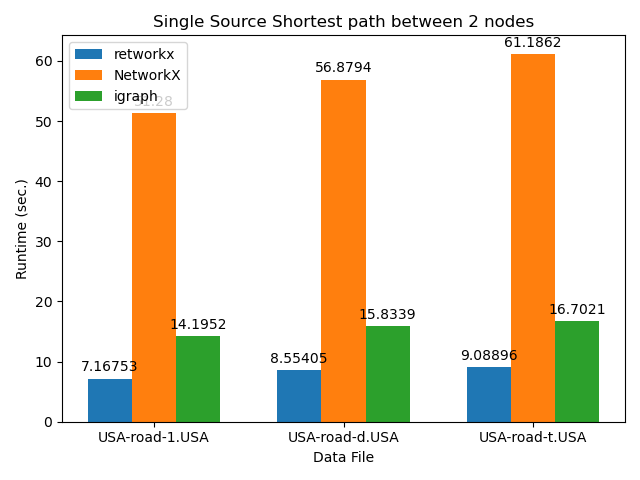
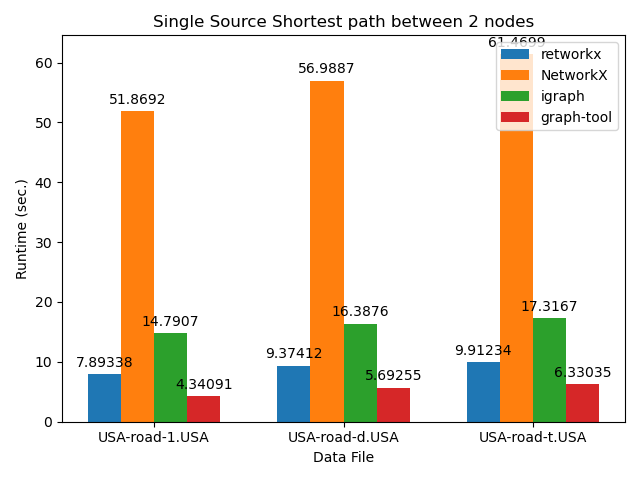
Add graph tool benchmarks and measure creation time

diff --git a/graph_results.py b/graph_results.py
@@ -7,6 +7,73 @@ import matplotlib.pyplot as plt
 import numpy as np
 
 
+def creation_time_graph():
+    # Only use slower larger datasets, the following is the full list:
+    # single_source_shortest_files = [
+    #     'USA-road-1.USA', 'USA-road-d.NY', 'USA-road-d.USA', 'USA-road-t.NY',
+    #     'USA-road-t.USA', 'rome99.gr'
+    # ]
+    single_source_shortest_files = [
+        "USA-road-1.USA",
+        "USA-road-d.USA",
+        "USA-road-t.USA",
+    ]
+    retworkx_times = []
+    networkx_times = []
+    igraph_times = []
+    graph_tools_times = []
+    for file in single_source_shortest_files:
+        retworkx_file = "retworkx_" + file + ".csv"
+        with open(retworkx_file) as csvfile:
+            data_reader = csv.reader(csvfile)
+            for row in data_reader:
+                if row[0] == "Creation":
+                    retworkx_times.append(statistics.mean([float(x) for x in row[1:]]))
+        networkx_file = "networkx_" + file + ".csv"
+        with open(networkx_file) as csvfile:
+            data_reader = csv.reader(csvfile)
+            for row in data_reader:
+                if row[0] == "Creation":
+                    networkx_times.append(statistics.mean([float(x) for x in row[1:]]))
+        igraph_file = "igraph_" + file + ".csv"
+        with open(igraph_file) as csvfile:
+            data_reader = csv.reader(csvfile)
+            for row in data_reader:
+                if row[0] == "Creation":
+                    igraph_times.append(statistics.mean([float(x) for x in row[1:]]))
+        graph_tools_file = "graph-tool_" + file + ".csv"
+        with open(graph_tools_file) as csvfile:
+            data_reader = csv.reader(csvfile)
+            for row in data_reader:
+                if row[0] == "Creation":
+                    graph_tools_times.append(
+                        statistics.mean([float(x) for x in row[1:]])
+                    )
+    x = np.arange(len(single_source_shortest_files))
+    width = 0.175
+    fig, ax = plt.subplots()
+    retworkx_rects = ax.bar(x - 3 * width / 2, retworkx_times, width, label="retworkx")
+    networkx_rects = ax.bar(x - width / 2, networkx_times, width, label="NetworkX")
+    igraph_rects = ax.bar(x + width / 2, igraph_times, width, label="igraph")
+    graph_tools_rects = ax.bar(
+        x + 3 * width / 2, graph_tools_times, width, label="graph-tool"
+    )
+
+    ax.set_ylabel("Runtime (sec.)")
+    ax.set_title("Time to create a weighted directed graph")
+    ax.set_xlabel("Data File")
+    ax.set_xticks(x)
+    ax.set_xticklabels(single_source_shortest_files)
+    ax.legend()
+
+    ax.bar_label(retworkx_rects, padding=3)
+    ax.bar_label(networkx_rects, padding=3)
+    ax.bar_label(igraph_rects, padding=3)
+    ax.bar_label(graph_tools_rects, padding=3)
+    fig.tight_layout()
+    fig.savefig("creation.png")
+
+
 def single_source_graph():
     # Only use slower larger datasets, the following is the full list:
     # single_source_shortest_files = [
@@ -21,6 +88,7 @@ def single_source_graph():
     retworkx_times = []
     networkx_times = []
     igraph_times = []
+    graph_tools_times = []
     for file in single_source_shortest_files:
         retworkx_file = "retworkx_" + file + ".csv"
         with open(retworkx_file) as csvfile:
@@ -40,12 +108,23 @@ def single_source_graph():
             for row in data_reader:
                 if row[0] == "Single Source":
                     igraph_times.append(statistics.mean([float(x) for x in row[1:]]))
+        graph_tools_file = "graph-tool_" + file + ".csv"
+        with open(graph_tools_file) as csvfile:
+            data_reader = csv.reader(csvfile)
+            for row in data_reader:
+                if row[0] == "Single Source":
+                    graph_tools_times.append(
+                        statistics.mean([float(x) for x in row[1:]])
+                    )
     x = np.arange(len(single_source_shortest_files))
-    width = 0.2333
+    width = 0.175
     fig, ax = plt.subplots()
-    retworkx_rects = ax.bar(x - width, retworkx_times, width, label="retworkx")
-    networkx_rects = ax.bar(x, networkx_times, width, label="NetworkX")
-    igraph_rects = ax.bar(x + width, igraph_times, width, label="igraph")
+    retworkx_rects = ax.bar(x - 3 * width / 2, retworkx_times, width, label="retworkx")
+    networkx_rects = ax.bar(x - width / 2, networkx_times, width, label="NetworkX")
+    igraph_rects = ax.bar(x + width / 2, igraph_times, width, label="igraph")
+    graph_tools_rects = ax.bar(
+        x + 3 * width / 2, graph_tools_times, width, label="graph-tool"
+    )
 
     ax.set_ylabel("Runtime (sec.)")
     ax.set_title("Single Source Shortest path between 2 nodes")
@@ -57,8 +136,70 @@ def single_source_graph():
     ax.bar_label(retworkx_rects, padding=3)
     ax.bar_label(networkx_rects, padding=3)
     ax.bar_label(igraph_rects, padding=3)
+    ax.bar_label(graph_tools_rects, padding=3)
     fig.tight_layout()
     fig.savefig("single_source_shortest_path.png")
+
+
+def single_source_graph_NY():
+    single_source_shortest_files = [
+        "USA-road-d.NY",
+        "USA-road-t.NY",
+    ]
+    retworkx_times = []
+    networkx_times = []
+    igraph_times = []
+    graph_tools_times = []
+    for file in single_source_shortest_files:
+        retworkx_file = "retworkx_" + file + ".csv"
+        with open(retworkx_file) as csvfile:
+            data_reader = csv.reader(csvfile)
+            for row in data_reader:
+                if row[0] == "Single Source":
+                    retworkx_times.append(statistics.mean([float(x) for x in row[1:]]))
+        networkx_file = "networkx_" + file + ".csv"
+        with open(networkx_file) as csvfile:
+            data_reader = csv.reader(csvfile)
+            for row in data_reader:
+                if row[0] == "Single Source":
+                    networkx_times.append(statistics.mean([float(x) for x in row[1:]]))
+        igraph_file = "igraph_" + file + ".csv"
+        with open(igraph_file) as csvfile:
+            data_reader = csv.reader(csvfile)
+            for row in data_reader:
+                if row[0] == "Single Source":
+                    igraph_times.append(statistics.mean([float(x) for x in row[1:]]))
+        graph_tools_file = "graph-tool_" + file + ".csv"
+        with open(graph_tools_file) as csvfile:
+            data_reader = csv.reader(csvfile)
+            for row in data_reader:
+                if row[0] == "Single Source":
+                    graph_tools_times.append(
+                        statistics.mean([float(x) for x in row[1:]])
+                    )
+    x = np.arange(len(single_source_shortest_files))
+    width = 0.2333
+    fig, ax = plt.subplots()
+    retworkx_rects = ax.bar(x - 3 * width / 2, retworkx_times, width, label="retworkx")
+    networkx_rects = ax.bar(x - width / 2, networkx_times, width, label="NetworkX")
+    igraph_rects = ax.bar(x + width / 2, igraph_times, width, label="igraph")
+    graph_tools_rects = ax.bar(
+        x + 3 * width / 2, graph_tools_times, width, label="graph-tool"
+    )
+
+    ax.set_ylabel("Runtime (sec.)")
+    ax.set_title("Single Source Shortest path between 2 nodes")
+    ax.set_xlabel("Data File")
+    ax.set_xticks(x)
+    ax.set_xticklabels(single_source_shortest_files)
+    ax.legend()
+
+    ax.bar_label(retworkx_rects, padding=3)
+    ax.bar_label(networkx_rects, padding=3)
+    ax.bar_label(igraph_rects, padding=3)
+    ax.bar_label(graph_tools_rects, padding=3)
+    fig.tight_layout()
+    fig.savefig("single_source_shortest_path_2.png")
 
 
 def all_pair_graph():
@@ -67,6 +208,7 @@ def all_pair_graph():
     retworkx_times = []
     networkx_times = []
     igraph_times = []
+    graph_tools_times = []
     for file in all_pair_files:
         retworkx_file = "retworkx_" + file + ".csv"
         with open(retworkx_file) as csvfile:
@@ -86,12 +228,23 @@ def all_pair_graph():
             for row in data_reader:
                 if row[0] == "All Pairs Shortest Path Length":
                     igraph_times.append(statistics.mean([float(x) for x in row[1:]]))
+        graph_tools_file = "graph-tool_" + file + ".csv"
+        with open(graph_tools_file) as csvfile:
+            data_reader = csv.reader(csvfile)
+            for row in data_reader:
+                if row[0] == "Single Source":
+                    graph_tools_times.append(
+                        statistics.mean([float(x) for x in row[1:]])
+                    )
     x = np.arange(len(all_pair_files))
     width = 0.2333
     fig, ax = plt.subplots()
-    retworkx_rects = ax.bar(x - width, retworkx_times, width, label="retworkx")
-    networkx_rects = ax.bar(x, networkx_times, width, label="NetworkX")
-    igraph_rects = ax.bar(x + width, igraph_times, width, label="igraph")
+    retworkx_rects = ax.bar(x - 3 * width / 2, retworkx_times, width, label="retworkx")
+    networkx_rects = ax.bar(x - width / 2, networkx_times, width, label="NetworkX")
+    igraph_rects = ax.bar(x + width / 2, igraph_times, width, label="igraph")
+    graph_tools_rects = ax.bar(
+        x + 3 * width / 2, graph_tools_times, width, label="graph-tool"
+    )
 
     ax.set_ylabel("Runtime (sec.)")
     ax.set_title("All Pairs Shortest Path Length")
@@ -103,12 +256,15 @@ def all_pair_graph():
     ax.bar_label(retworkx_rects, padding=3)
     ax.bar_label(networkx_rects, padding=3)
     ax.bar_label(igraph_rects, padding=3)
+    ax.bar_label(graph_tools_rects, padding=3)
     fig.tight_layout()
     fig.savefig("all_pairs.png")
 
 
 def main():
+    creation_time_graph()
     single_source_graph()
+    single_source_graph_NY()
     all_pair_graph()
 
 

diff --git a/graph_tool_bench/gr_parser.py b/graph_tool_bench/gr_parser.py
@@ -1,0 +1,66 @@
+# This code is licensed under the Apache License, Version 2.0. You may
+# obtain a copy of this license in the LICENSE.txt file in the root directory
+# of this source tree or at http://www.apache.org/licenses/LICENSE-2.0.
+#
+# Any modifications or derivative works of this code must retain this
+# copyright notice, and modified files need to carry a notice indicating
+# that they have been altered from the originals.
+
+import gzip
+
+import graph_tool
+
+"""Parser for graph specification files from the 9th DIMACS challenge
+
+This module contains tools for parsing the graph specification files from
+the 9th DIMACS challenge which are documented here:
+
+http://users.diag.uniroma1.it/challenge9/format.shtml
+"""
+
+
+def parse_gr_from_file(path, directed=True):
+    """Parse a graph specification file and return a retworkx graph object
+
+    :param str path: A path to the graph specification file to parse
+    :param bool directed: Whether the returned graph is directed or not
+        if set to True a PyDAG function is returned (with cycle_check set to
+        False so it's a PyDiGraph) to maximize compatibility with functions
+        that predate the PyDiGraph class
+
+    :returns: A retworkx PyGraph or PyDAG object representing the input gr
+        file
+    """
+    return_graph = graph_tool.Graph(directed=directed)
+    edge_weight = return_graph.new_edge_property("double")
+    return_graph.edge_properties["weights"] = edge_weight
+    nodes_added = False
+    if path.endswith("gz"):
+        open_call = gzip.open
+    else:
+        open_call = open
+    with open_call(path, "rt") as fd:
+        for line in fd:
+            if line.startswith("c"):
+                continue
+            if line.startswith("p"):
+                num_nodes = int(line.split(" ")[2])
+                return_graph.add_vertex(num_nodes)
+                nodes_added = True
+            elif line.startswith("a"):
+                if not nodes_added:
+                    raise Exception(
+                        "Invalid gr file, program line not first non-comment " "line."
+                    )
+                components = line.split(" ")
+                u = int(components[1]) - 1
+                v = int(components[2]) - 1
+                weight = float(components[3])
+                edge_index = return_graph.add_edge(u, v)
+                edge_weight[edge_index] = weight
+            else:
+                raise Exception(
+                    "Invalid gr file line: '%s' doesn't start with a valid " "token"
+                )
+
+    return return_graph

diff --git a/graph_tool_bench/shortest_path.py b/graph_tool_bench/shortest_path.py
@@ -10,7 +10,8 @@ import csv
 import sys
 import time
 
-import networkx
+import graph_tool
+import graph_tool.topology
 
 import gr_parser
 
@@ -26,24 +27,28 @@ def main():
         graph = gr_parser.parse_gr_from_file(path)
         stop = time.time()
         creation.append(stop - start)
-    end_node = len(graph) - 1
+    print(graph.edge_properties)
+    edge_weights = graph.edge_properties["weights"]
+    end_node = graph.num_vertices() - 1
     print("staring single source")
     single_source_shortest_path = []
     for _ in range(5):
         start = time.time()
-        networkx.dijkstra_path_length(graph, 0, end_node)
+        graph_tool.topology.shortest_distance(
+            graph, source=0, target=end_node, weights=edge_weights
+        )
         stop = time.time()
         single_source_shortest_path.append(stop - start)
     all_pairs = []
-    if len(graph) < 100000:
+    if graph.num_vertices() < 100000:
         print("all pairs")
         for i in range(5):
             start = time.time()
-            dict(networkx.all_pairs_dijkstra_path_length(graph))
+            graph_tool.topology.shortest_distance(graph, weights=edge_weights)
             stop = time.time()
             all_pairs.append(stop - start)
     filename = ".".join(path.split("/")[-1].split(".")[0:2])
-    with open(f"networkx_{filename}.csv", "w") as csvfile:
+    with open(f"graph-tool_{filename}.csv", "w") as csvfile:
         csv_writer = csv.writer(csvfile)
         csv_writer.writerow(["Creation"] + creation)
         csv_writer.writerow(["Single Source"] + single_source_shortest_path)

diff --git a/retworkx_bench/shortest_path.py b/retworkx_bench/shortest_path.py
@@ -20,14 +20,19 @@ MEM_SIZE = 1.26 * 10 ** 11
 
 def main():
     path = sys.argv[1]
-    graph = gr_parser.parse_gr_from_file(path)
+    creation = []
+    for _ in range(5):
+        start = time.time()
+        graph = gr_parser.parse_gr_from_file(path)
+        stop = time.time()
+        creation.append(stop - start)
     end_node = len(graph) - 1
     print("staring single source")
     single_source_shortest_path = []
     for _ in range(5):
         start = time.time()
         retworkx.digraph_dijkstra_shortest_path_lengths(
-            graph, 0, goal=end_node, edge_cost_fn=float
+            graph, 0, goal=end_node, edge_cost_fn=lambda x: x
         )
         stop = time.time()
         single_source_shortest_path.append(stop - start)
@@ -50,11 +55,10 @@ def main():
     filename = ".".join(path.split("/")[-1].split(".")[0:2])
     with open(f"retworkx_{filename}.csv", "w") as csvfile:
         csv_writer = csv.writer(csvfile)
+        csv_writer.writerow(["Creation"] + creation)
         csv_writer.writerow(["Single Source"] + single_source_shortest_path)
         if all_pairs:
             csv_writer.writerow(["All Pairs Shortest Path Length"] + all_pairs)
-        if distance_matrix:
-            csv_writer.writerow(["Distance Matrix"] + distance_matrix)
 
 
 if __name__ == "__main__":

diff --git a/igraph_bench/shortest_path.py b/igraph_bench/shortest_path.py
@@ -18,7 +18,12 @@ MEM_SIZE = 1.26 * 10 ** 11
 
 def main():
     path = sys.argv[1]
-    graph = gr_parser.parse_gr_from_file(path)
+    creation = []
+    for _ in range(5):
+        start = time.time()
+        graph = gr_parser.parse_gr_from_file(path)
+        stop = time.time()
+        creation.append(stop - start)
     end_node = graph.vcount() - 1
     print("staring single source")
     single_source_shortest_path = []
@@ -39,6 +44,7 @@ def main():
     filename = ".".join(path.split("/")[-1].split(".")[0:2])
     with open(f"igraph_{filename}.csv", "w") as csvfile:
         csv_writer = csv.writer(csvfile)
+        csv_writer.writerow(["Creation"] + creation)
         csv_writer.writerow(["Single Source"] + single_source_shortest_path)
         if all_pairs:
             csv_writer.writerow(["All Pairs Shortest Path Length"] + all_pairs)
